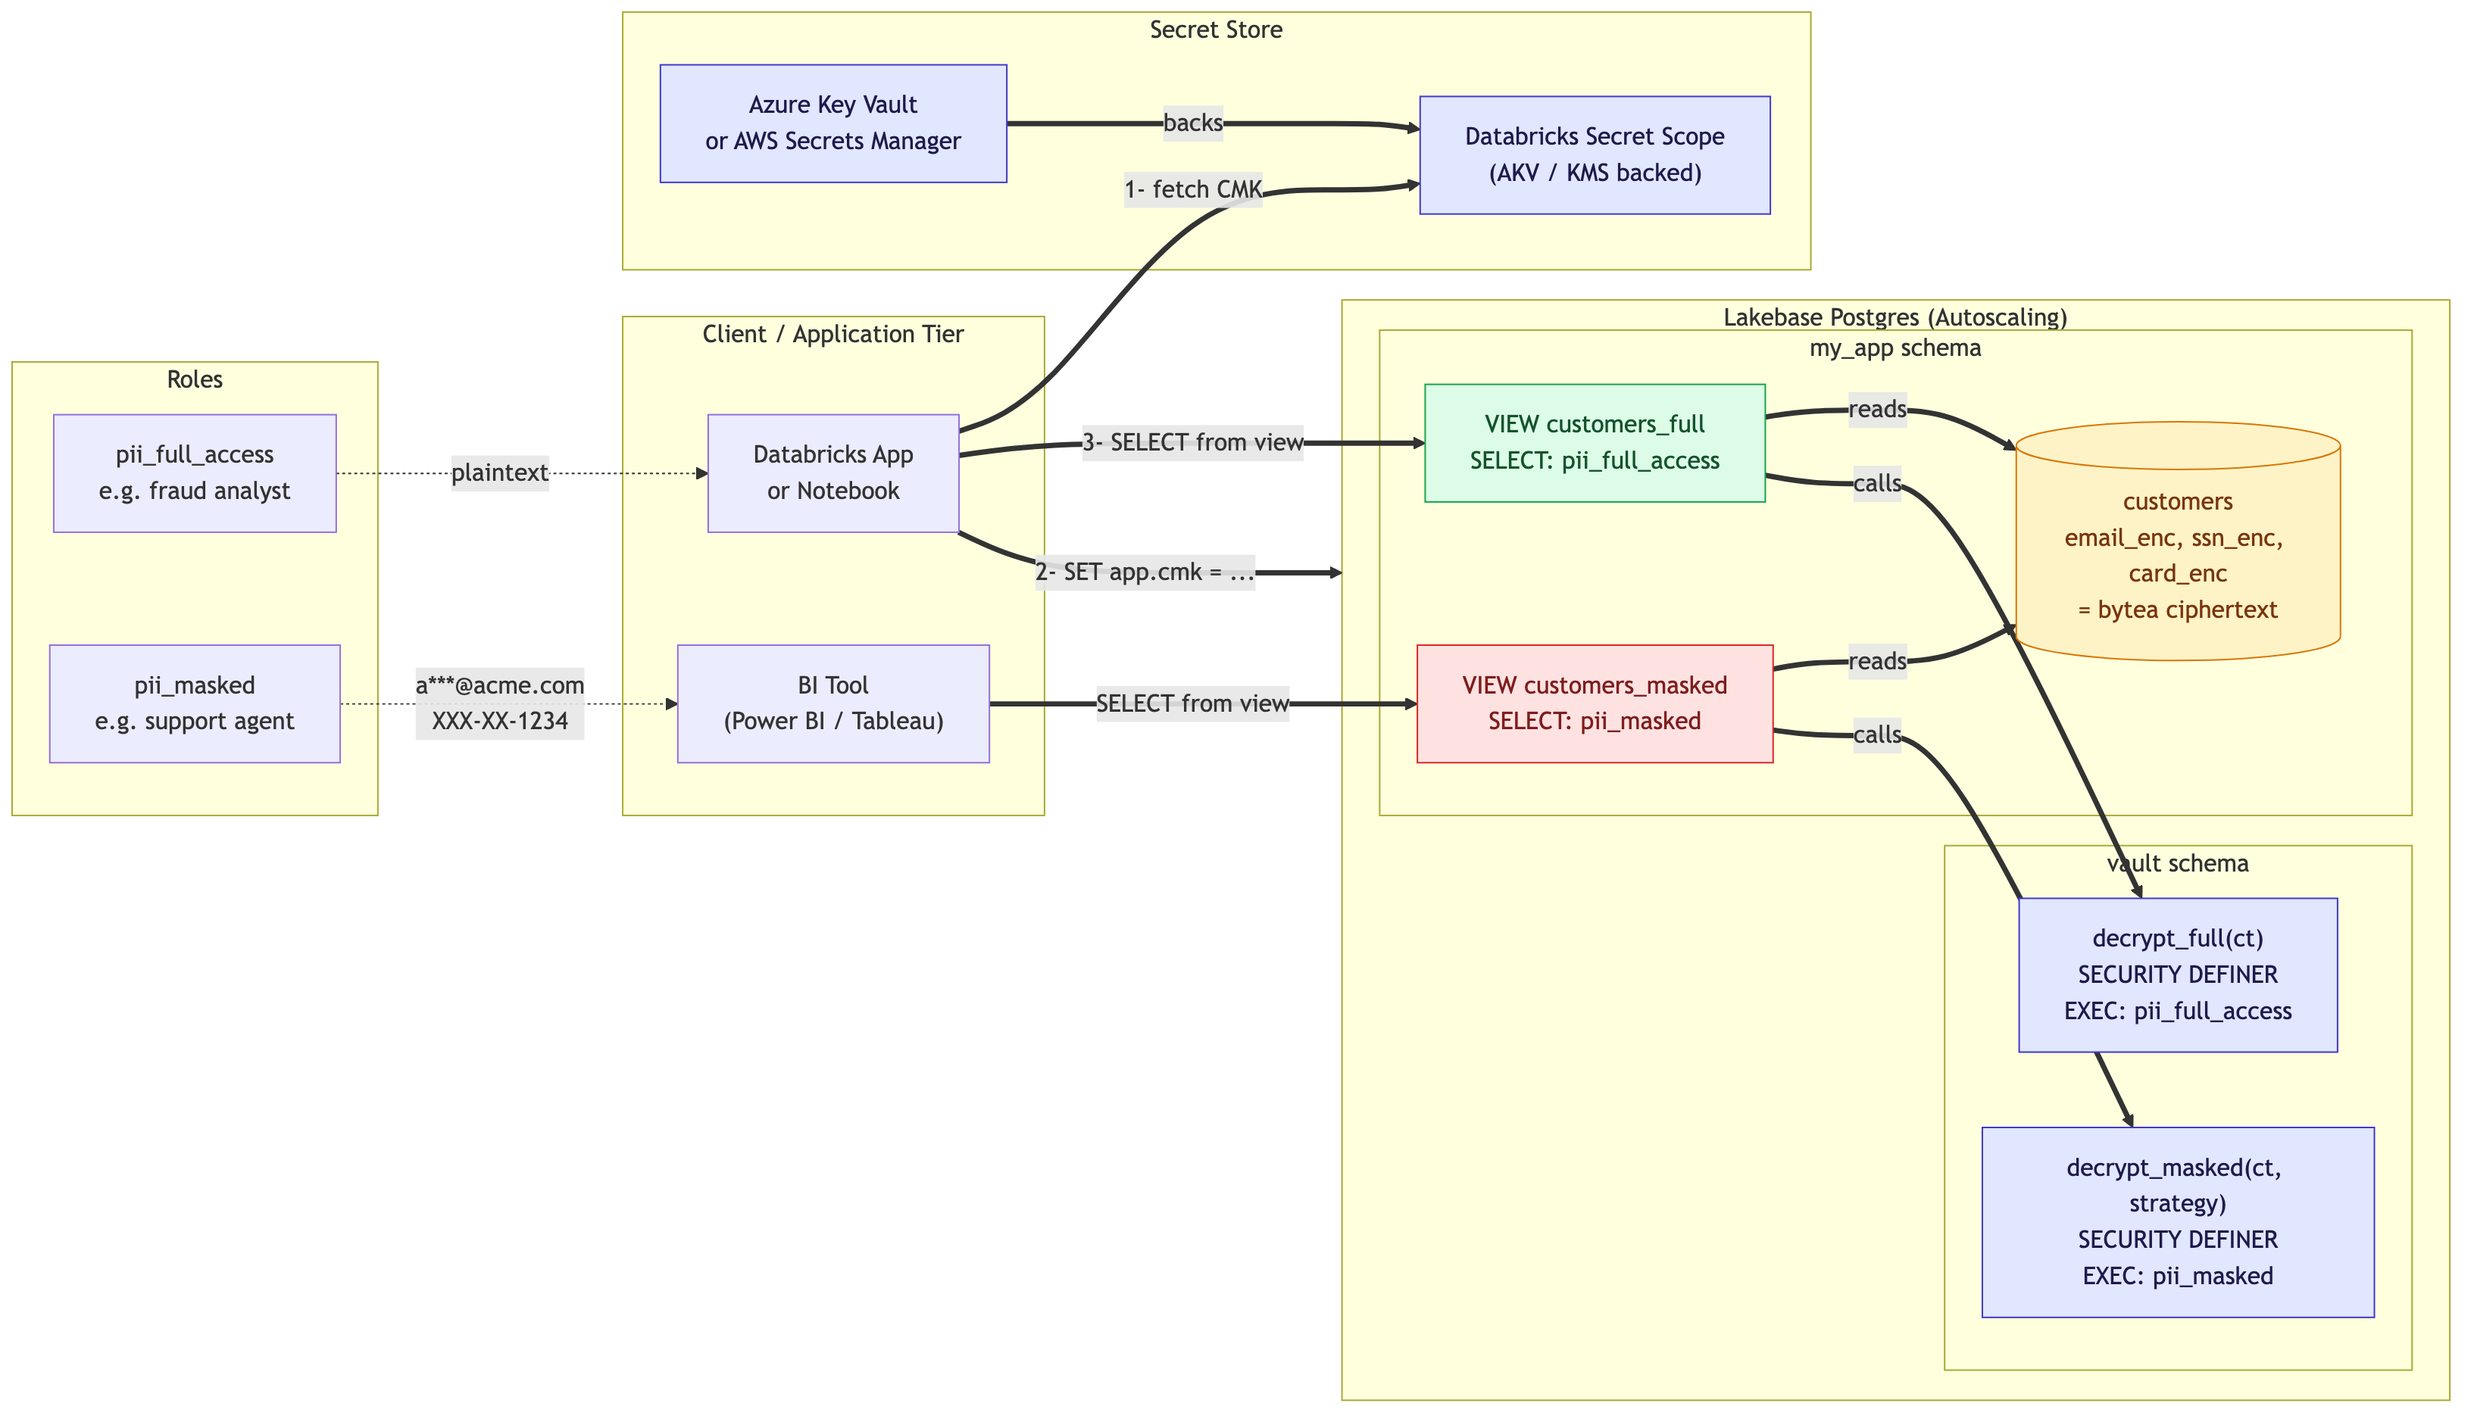
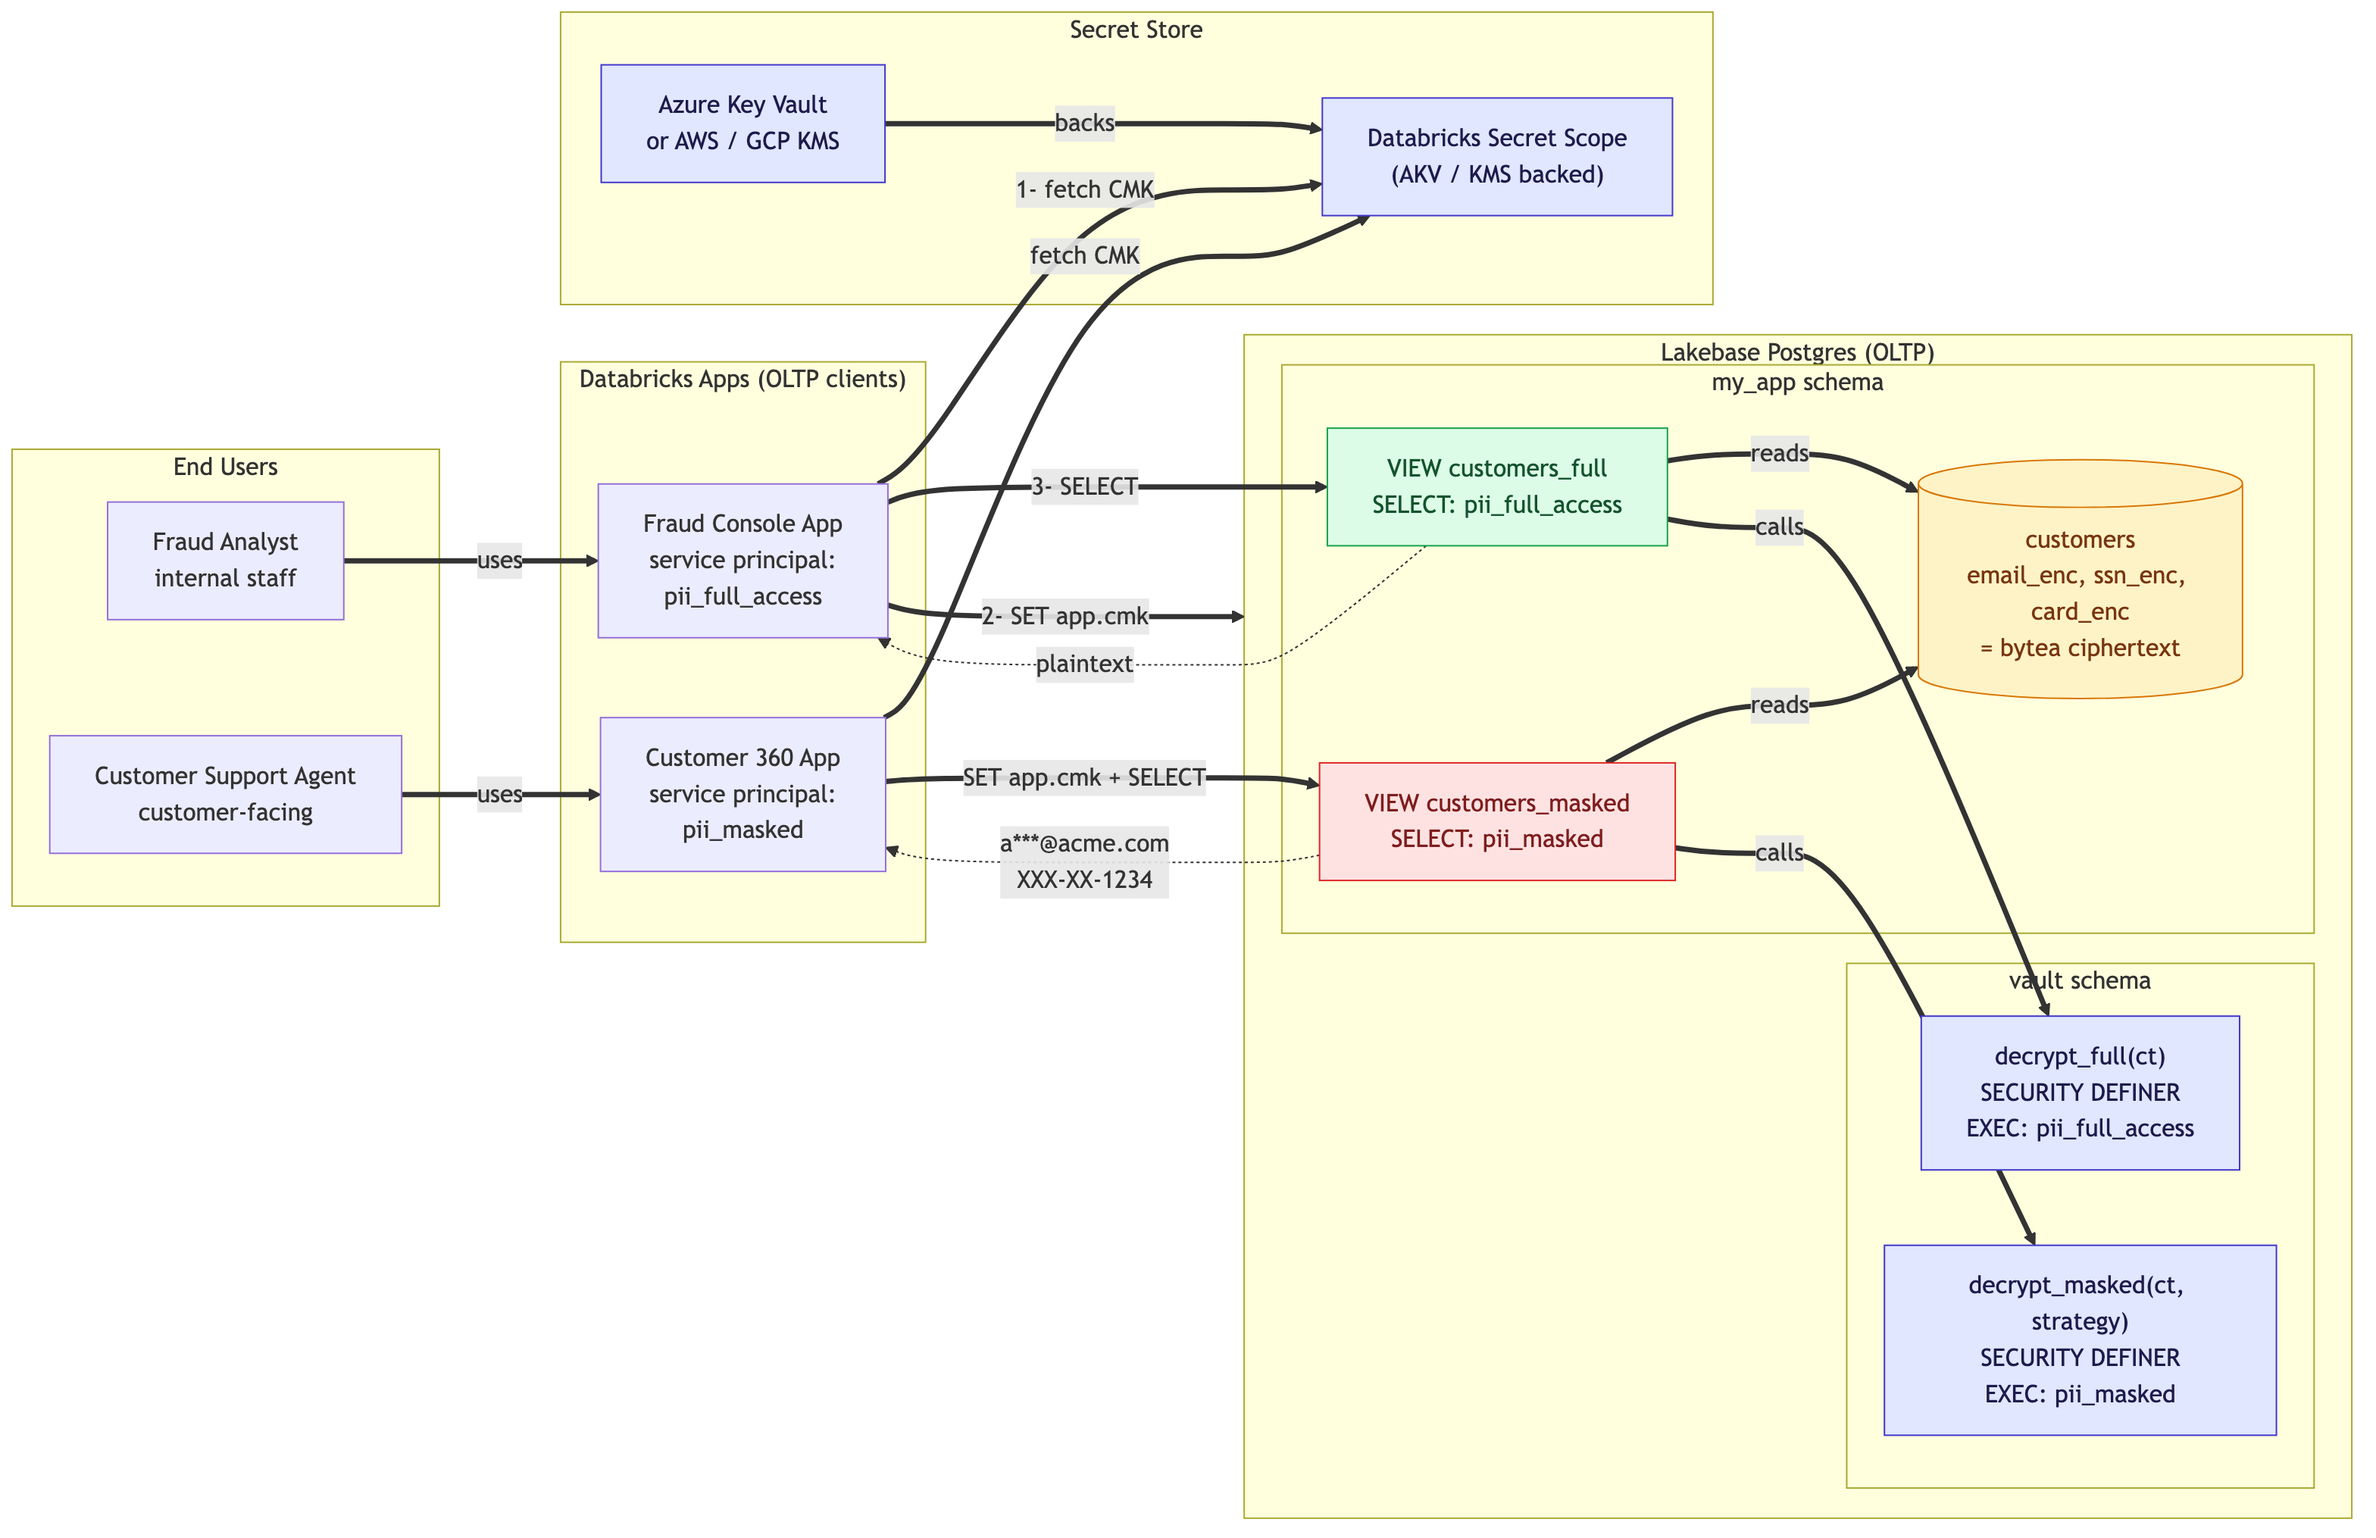
Reframe consumers as Databricks Apps; remove BI from OLTP path
Lakebase is OLTP -- BI tools should query the Lakehouse (synced Delta tables
with UC column masks), not Postgres directly. Updated the architecture to
show two Databricks Apps as the consumers (Fraud Console with pii_full_access
and Customer 360 App with pii_masked) instead of a notebook + BI tool.

- blog/images/architecture.mmd / .png  rebuilt with two Databricks Apps
  driven by two end-user personas; BI/notebook removed.
- blog/images/at_rest_vs_column.html / .png  swapped the BI insider row
  for "customer-facing app role compromised" which is the actual OLTP threat.
- blog/lakebase-column-masking-cmk.md   personas reframed as two operational
  apps; explicit note that BI/analytics on this data lives on the Lakehouse
  side via Lakeflow Connect Postgres + UC column masks.
- README.md   matching scrub + new note on consumer model.

Changed region(s): [[0.0, 0.0, 1.0, 0.9904], [0.4375, 0.0, 0.5312, 0.0309], [0.9062, 0.2785, 0.9375, 0.3095]]

diff --git a/blog/images/at_rest_vs_column.html b/blog/images/at_rest_vs_column.html
@@ -100,7 +100,7 @@
         <tr><td>Stolen backup / disk image</td><td class="yes">Protected</td><td class="yes">Protected</td></tr>
         <tr><td>Compromised application credential</td><td class="no">Plaintext exposed</td><td class="partial">Only the role's view is exposed (mask or null)</td></tr>
         <tr><td>Curious DBA reading rows</td><td class="no">Plaintext exposed</td><td class="yes">Sees ciphertext only</td></tr>
-        <tr><td>Insider exporting data via BI tool</td><td class="no">Plaintext exposed</td><td class="yes">BI role gets masked values</td></tr>
+        <tr><td>Customer-facing app role compromised</td><td class="no">Plaintext exposed</td><td class="yes">App's role gets masked values only</td></tr>
         <tr><td>Audit / least-privilege controls</td><td class="no">Per-disk, not per-column</td><td class="yes">Per-column, per-role, per-strategy</td></tr>
         <tr><td>Key rotation</td><td class="partial">Re-encrypts the volume</td><td class="yes">In-place row-level re-encrypt in one UPDATE</td></tr>
       </tbody>

diff --git a/blog/lakebase-column-masking-cmk.md b/blog/lakebase-column-masking-cmk.md
@@ -8,15 +8,16 @@
 
 ## The objective
 
-You've spun up [Lakebase](https://docs.databricks.com/aws/en/oltp/), Databricks' managed Postgres, to power an operational app — maybe a credit-decisioning service, a customer 360 lookup, or an account-status dashboard. The table holds emails, SSNs, card numbers. Three classes of people now want to read it:
+You've spun up [Lakebase](https://docs.databricks.com/aws/en/oltp/), Databricks' managed Postgres, to power an operational application — maybe a credit-decisioning service, a customer 360 lookup, or an account-status microservice. The table holds emails, SSNs, card numbers. Two operational apps now read from it:
 
-1. **A fraud analyst** who legitimately needs the full PII to investigate cases.
-2. **A support agent** who only needs the last four digits of an SSN to verify a caller.
-3. **A BI dashboard** that shows aggregate signups per region and shouldn't see the email at all.
+1. **A fraud console** used by internal analysts who legitimately need the full PII to investigate cases.
+2. **A customer 360 / support app** where the agent only needs the last four digits of an SSN to verify a caller.
 
-Your platform team already enabled storage-level encryption with a customer-managed key — the disk is encrypted. So you're done, right?
+Both apps run as Databricks Apps with their own service principals. Both query the same `customers` table. Your platform team already enabled storage-level encryption with a customer-managed key — the disk is encrypted. So you're done, right?
 
-No. Encryption-at-rest only protects you against one specific attacker (the one who steals the disk). The three personas above all log in as legitimate users and run `SELECT *`. To them, the disk-level encryption is invisible.
+No. Encryption-at-rest only protects you against one specific attacker (the one who steals the disk). Both apps above log in as legitimate users and run `SELECT *`. To them, the disk-level encryption is invisible — and a leaked credential or compromised app instance gives the attacker exactly the same view.
+
+(Side note: this is an OLTP problem. If you also need analytics on this data, that lives in the Lakehouse — sync the *masked* view to Delta and apply Unity Catalog column masks there. Lakebase is for operational apps; Power BI / Tableau should not point at it.)
 
 This post is about adding the second layer: **column-level encryption with dynamic masking**, so the same row in the same table looks completely different depending on who's reading.
 
@@ -28,9 +29,9 @@ This post is about adding the second layer: **column-level encryption with dynam
 
 Encryption-at-rest is a **storage-tier** control. The database engine still sees plaintext. Anyone who authenticates and runs `SELECT` gets cleartext rows back. It's a perfectly good control for the threat it targets — disk theft, snapshot exfiltration, backup leakage — but it does nothing for:
 
-- A compromised app credential
+- A compromised app credential or service principal
 - An overprivileged engineer querying via the SQL editor
-- A BI tool that legitimately connects with a service account but exposes data to thousands of viewers
+- An internal microservice that legitimately connects with a service account but is breached
 - A `pg_dump` accidentally posted to an internal wiki
 
 **Column-level encryption** is an **application-tier** control. The PII columns in your table are *bytea ciphertext on disk and in memory*. Plaintext only exists for the moment a privileged role calls a decrypt function — and even then, only for that role. You can layer a *masked* decrypt path so other roles see redacted strings. The result:
@@ -49,9 +50,9 @@ You want **both layers**. They don't replace each other; they protect different 
 The pattern has four moving parts:
 
 1. **The CMK** lives in **Azure Key Vault** (or AWS KMS / GCP KMS).
-2. **A Databricks Secret Scope**, backed by AKV, surfaces the CMK to authorized notebooks/apps with a single API call. Every read is audited in Azure Monitor *and* Databricks audit logs.
+2. **A Databricks Secret Scope**, backed by AKV, surfaces the CMK to authorized Databricks Apps with a single API call. Every read is audited in Azure Monitor *and* Databricks audit logs.
 3. **Lakebase Postgres** holds the table with PII as `bytea` ciphertext, plus two `SECURITY DEFINER` functions that decrypt — one returns plaintext, one returns *already-masked* strings. ACLs decide who can call which.
-4. **The application** reads the CMK once at session start, injects it into Postgres via a session-local GUC variable, then queries the appropriate view. The CMK never persists in Postgres.
+4. **Each Databricks App** authenticates as a different Postgres role: the Fraud Console as `pii_full_access`, the Customer 360 App as `pii_masked`. They both read the CMK once at session start, inject it into Postgres via a session-local GUC variable, then query their assigned view. The CMK never persists in Postgres.
 
 The key never crosses a role boundary inside the database. The plaintext never leaves the decrypt function for masked users. Both `pii_full_access` and `pii_masked` see *the same row* through different windows.
 
@@ -79,7 +80,7 @@ databricks secrets create-scope lakebase-cmk \
     --dns-name "https://my-customer-kv.vault.azure.net/"
 ```
 
-Now any notebook, job, or Databricks App can fetch the key with `dbutils.secrets.get(...)` — and Databricks records it in the audit log.
+Now any Databricks App or job can fetch the key with `dbutils.secrets.get(...)` — and Databricks records it in the audit log.
 
 ### Step 3 — Build the encryption + masking layer in Lakebase
 
@@ -197,7 +198,7 @@ The CMK lives in:
 - **The app's connection's session memory** — for the lifetime of the connection only.
 - **Never on disk in Postgres.** Never in pg_stat_statements (use `set_config` not `SET app.cmk = '...'`).
 
-If your customer-facing tooling is BI/SQL-only and can't run a Python bootstrap, swap step 4 for a tiny scheduled Databricks Job that fetches the CMK from AKV nightly and writes it into a `vault.keys` table that you lock down with `REVOKE ALL FROM PUBLIC`. The decrypt functions then read from that table instead of the GUC. Slightly more attack surface, much friendlier for analysts.
+If you have ad-hoc SQL Editor users who need access without running a Python bootstrap, swap step 4 for a tiny scheduled Databricks Job that fetches the CMK from AKV nightly and writes it into a `vault.keys` table locked down with `REVOKE ALL FROM PUBLIC`. The decrypt functions then read from that table instead of the GUC. Slightly more attack surface, much friendlier for break-glass / debugging access.
 
 ---
 
@@ -250,12 +251,12 @@ Then update the AKV secret to the new value. New sessions transparently pick up 
 |---|---|
 | **Compromised credentials don't leak plaintext** | A leaked password for `demo_masked_user` only exposes masked values. No SSN. No full card. |
 | **Internal threat resistance** | DBAs, SREs, and platform engineers reading rows directly see only `bytea`. Without the CMK they have no path to plaintext. |
-| **BI tools become safe consumers** | Point Power BI / Tableau at `customers_masked` with a service account in `pii_masked`. Dashboards show `a***@acme.com` and `XXX-XX-1234`. No more "BI dashboard accidentally exposes 50K SSNs" headlines. |
+| **Customer-facing apps become safe consumers** | Run your customer 360 / support / partner-portal app as a service principal in `pii_masked`. Even a full app compromise only leaks `a***@acme.com` and `XXX-XX-1234`. The apps that *do* see plaintext (fraud console, internal investigations) are much smaller, easier to audit, and run under tighter network controls. |
 | **Per-column, per-role audit** | Postgres logs every `decrypt_full` call. Combined with Databricks audit on the AKV secret read, you get a complete chain: *"At 14:02, app X read the CMK; at 14:03, role Y decrypted 47 emails."* |
 | **The CMK is yours, not Databricks'** | Stored in your AKV. Databricks never persists it. You can rotate, revoke, or expire it without involving anyone. |
 | **One-statement key rotation** | No table downtime. No re-export/import. Just one `UPDATE` per rotation. |
 | **Lakebase-native, no extra services** | Pure `pgcrypto` (already on Lakebase's [supported extensions list](https://docs.databricks.com/aws/en/oltp/projects/extensions)) + standard Postgres roles. No sidecar service, no separate KMS proxy. |
-| **Composes with Lakehouse governance** | If you sync the masked view to Delta via Lakeflow Connect Postgres ingestion, the *masked* values land in the Lakehouse — you can apply UC column masks on top for a second layer of governance on the analytics side. |
+| **Composes with Lakehouse governance** | Lakebase is OLTP — keep BI on the Lakehouse side. If you sync the masked view to Delta via Lakeflow Connect Postgres ingestion, the *masked* values land in Unity Catalog and analysts query them through Power BI / Tableau / SQL warehouses. Apply UC column masks on top for a second layer of governance on the analytics side. |
 
 ---
 

diff --git a/README.md b/README.md
@@ -59,7 +59,7 @@ It's the "second layer" on top of platform encryption-at-rest. See [the blog pos
    SELECT * FROM my_app.customers_masked;   -- a***@acme.com, XXX-XX-6789, ...
    ```
 
-### Option B — automated end-to-end demo from a notebook or CLI
+### Option B — automated end-to-end demo from a Databricks App or CLI
 
 ```bash
 pip install -r requirements.txt
@@ -90,7 +90,7 @@ The script:
 | Stolen backup / disk image | Protected | Protected |
 | Compromised application credential | Plaintext exposed | Only the role's view (mask or null) |
 | Curious DBA reading rows | Plaintext exposed | Sees ciphertext only |
-| Insider exporting data via BI tool | Plaintext exposed | BI role gets masked values |
+| Customer-facing app role compromised | Plaintext exposed | App's role gets masked values only |
 | Audit / least-privilege controls | Per-disk, not per-column | Per-column, per-role, per-strategy |
 | Key rotation | Re-encrypts the volume | In-place row-level re-encrypt in one `UPDATE` |
 
@@ -125,7 +125,9 @@ with psycopg.connect(
     print(cur.fetchall())
 ```
 
-For BI tools that can't run a Python bootstrap, use a tiny scheduled Databricks Job to push the CMK into a locked-down `vault.keys` table (the variant in `scripts/cmk_column_masking_demo.py`).
+For ad-hoc SQL Editor / break-glass access where a Python bootstrap isn't available, use a tiny scheduled Databricks Job to push the CMK into a locked-down `vault.keys` table (the variant in `scripts/cmk_column_masking_demo.py`).
+
+> **Note on consumers.** Lakebase is OLTP. The clients of these masking views are **Databricks Apps**, microservices, and operational backends — *not* BI tools. For analytics on the same data, sync the *masked* view to Delta via Lakeflow Connect Postgres ingestion and apply Unity Catalog column masks on the Lakehouse side.
 
 ## Requirements
 
